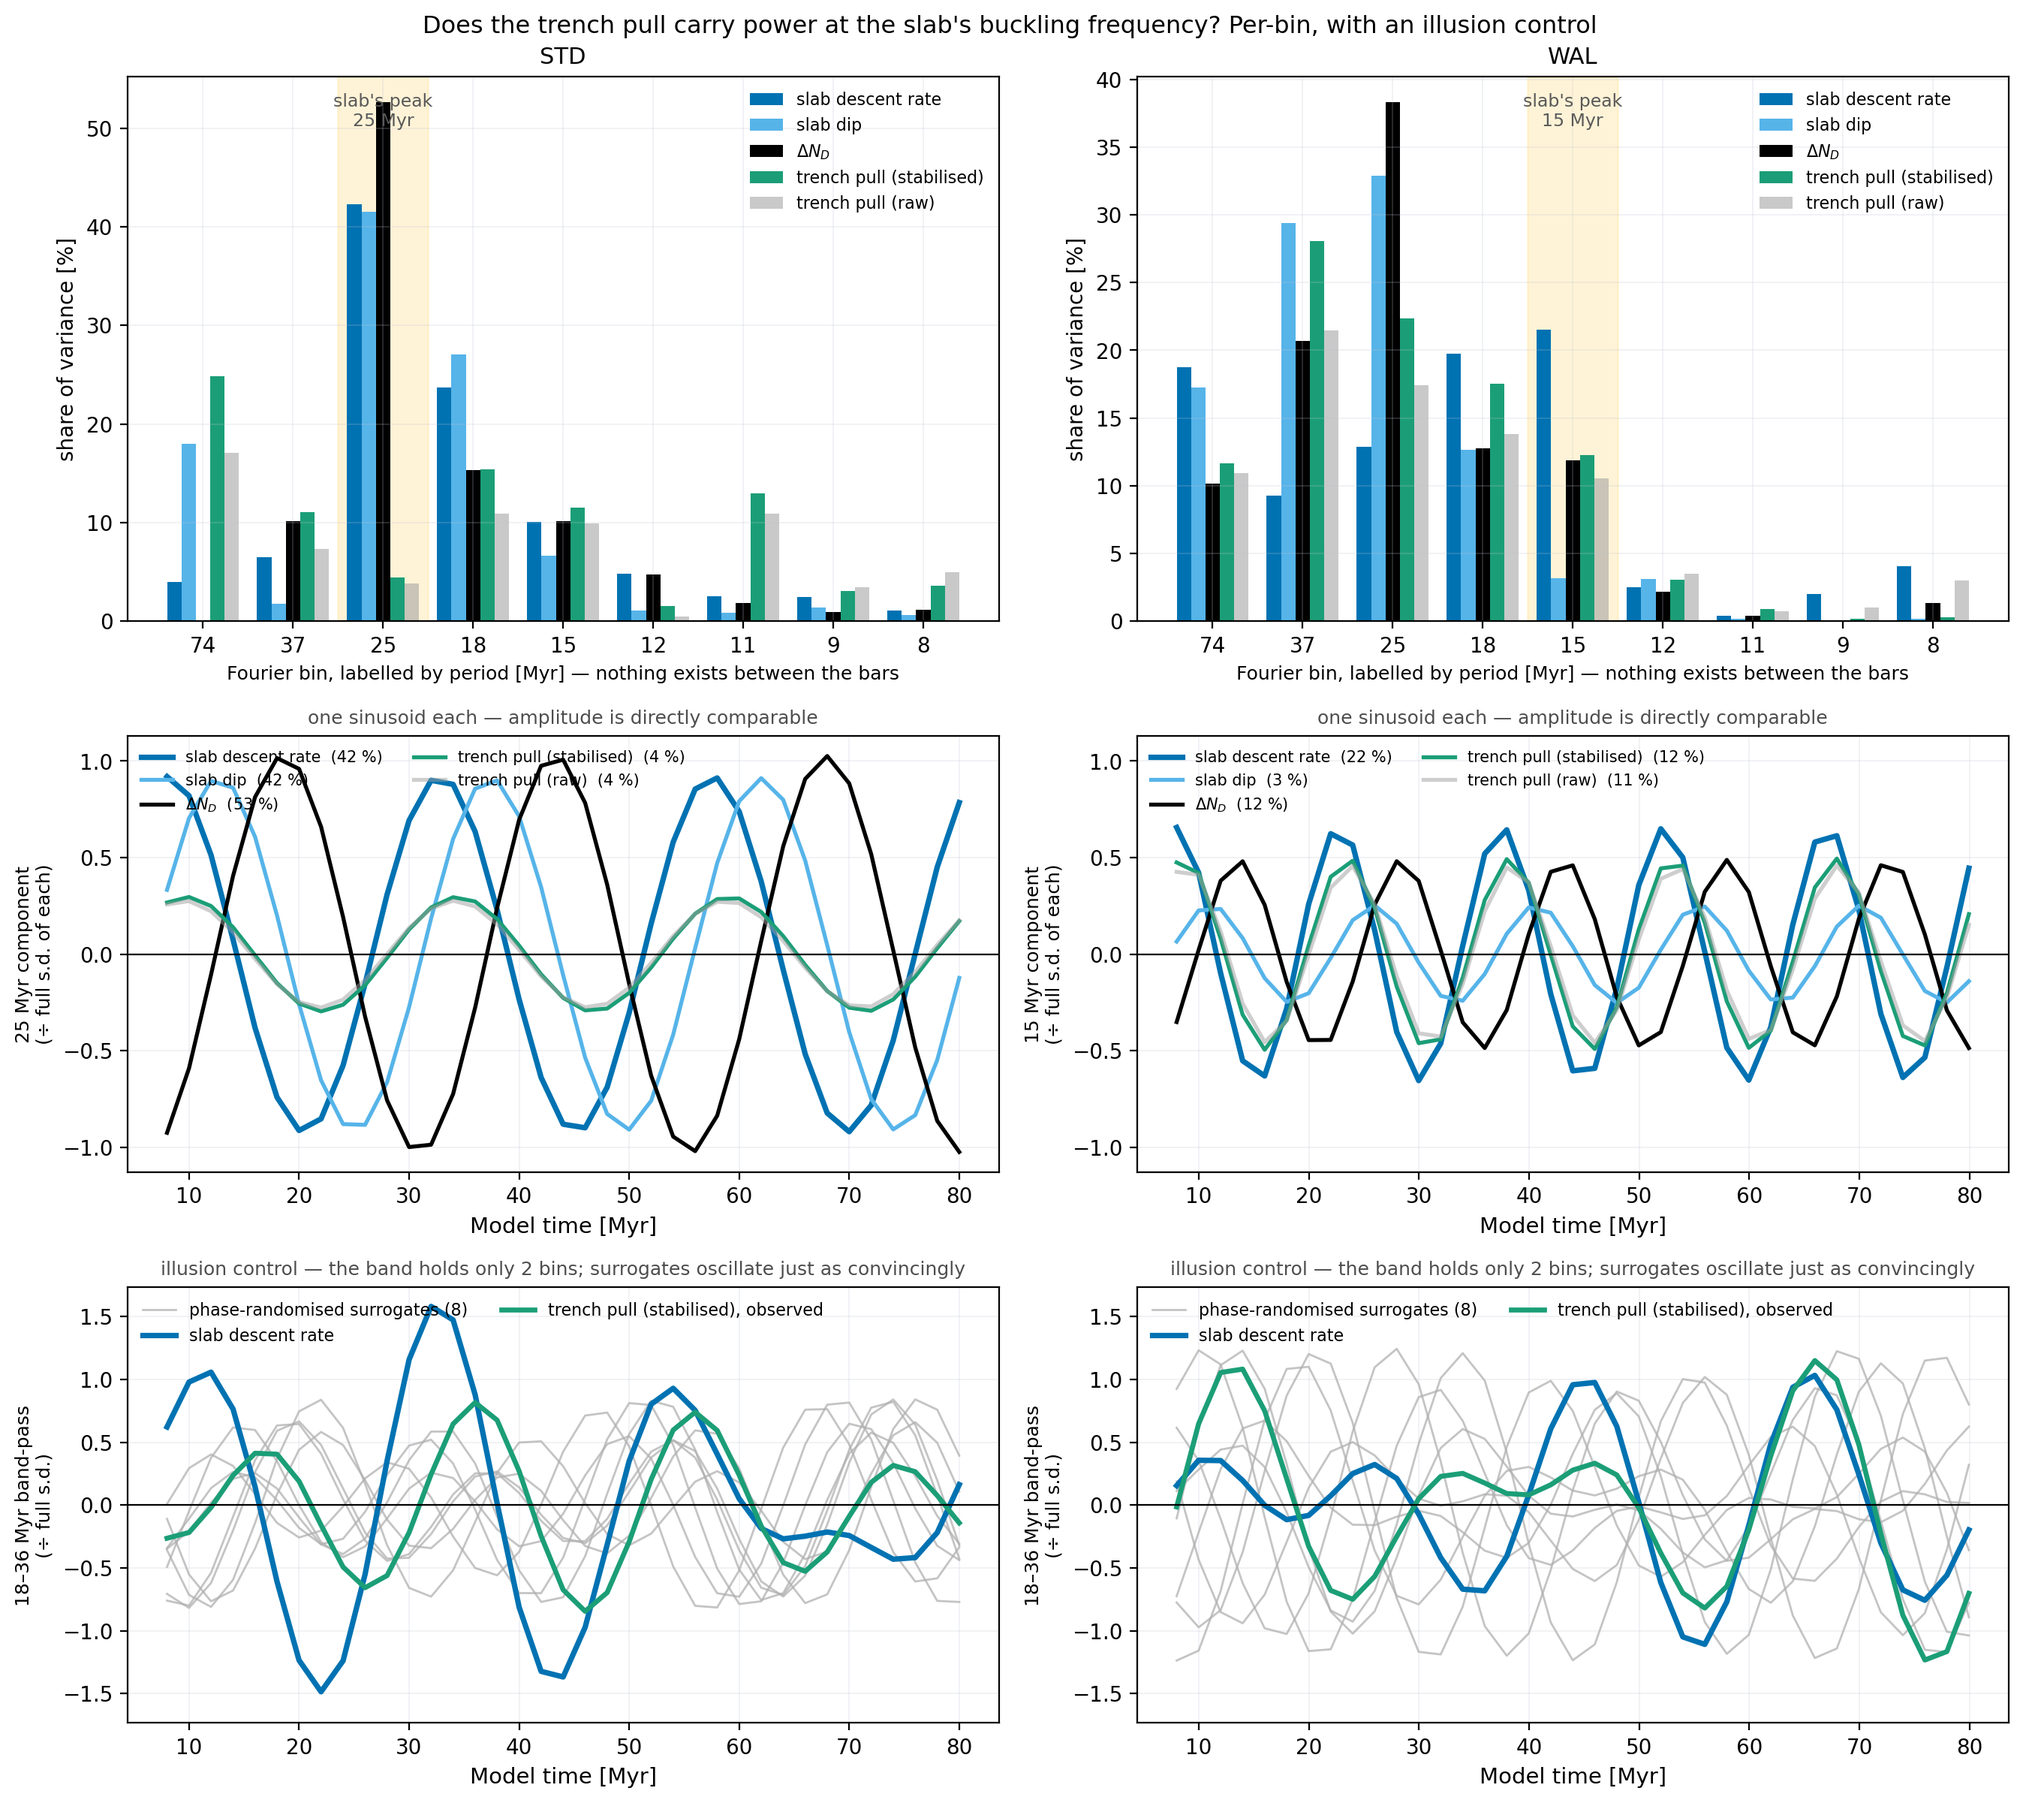
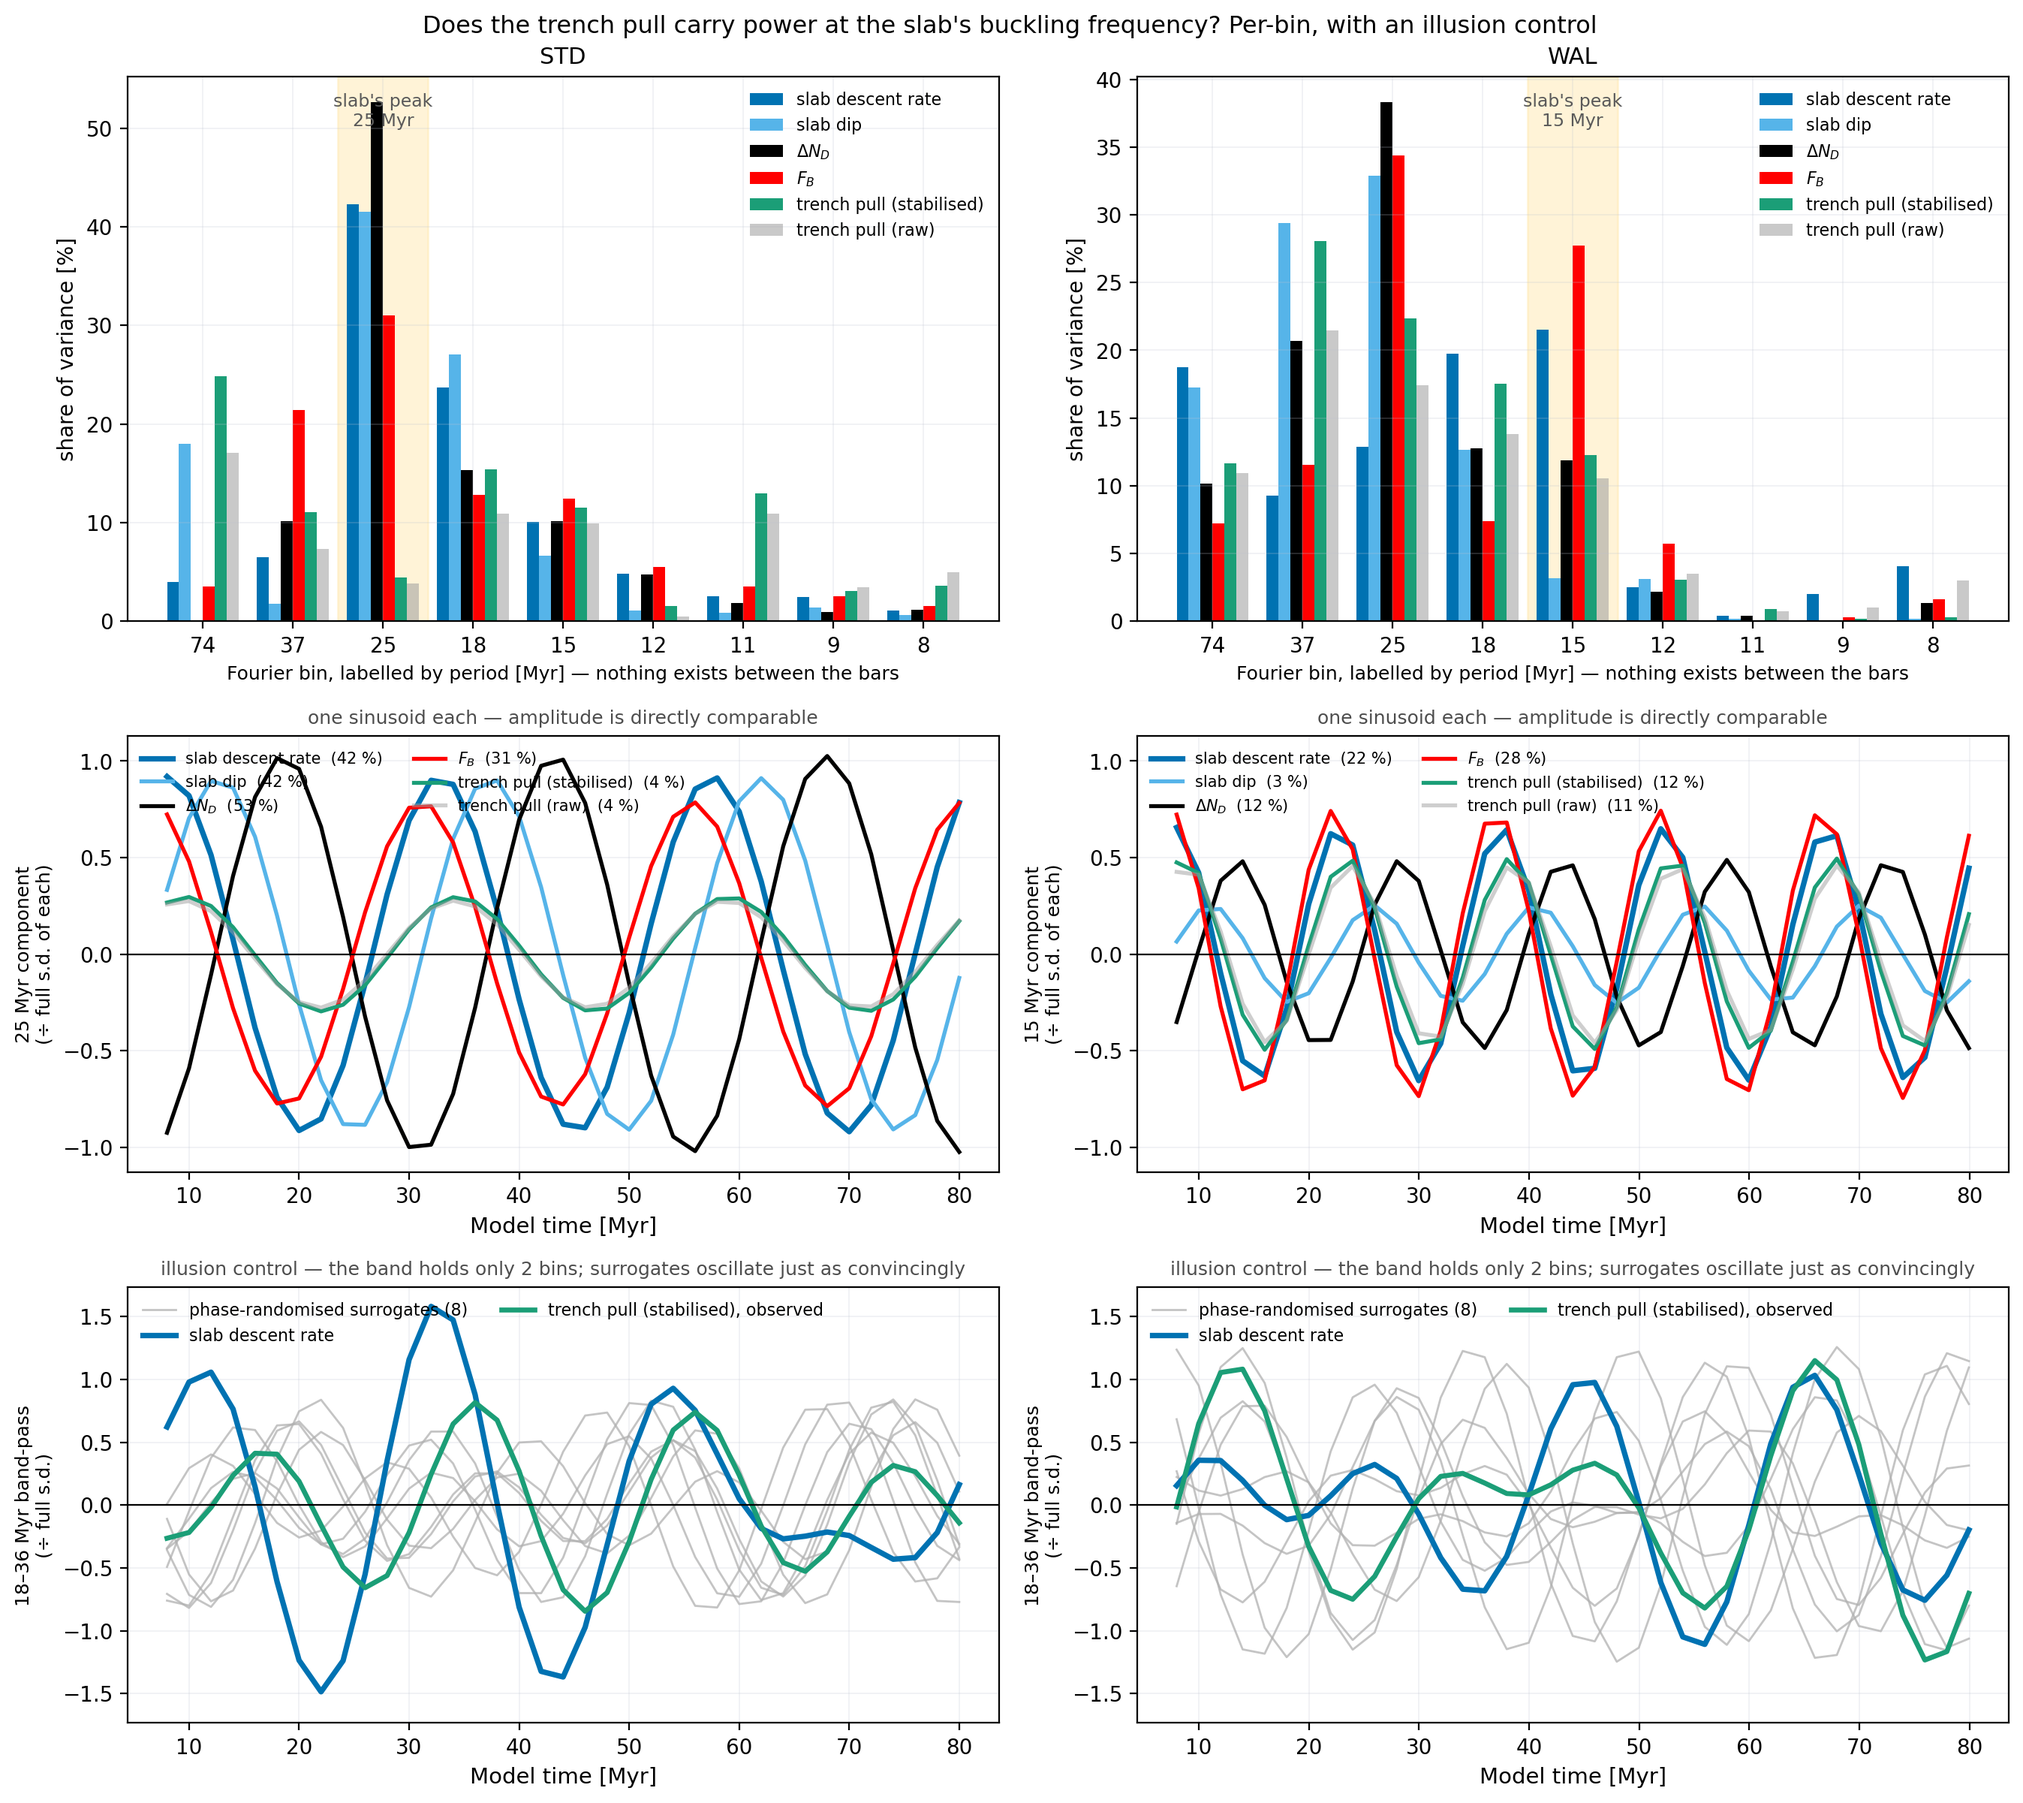
diag_trench_pull_spectrum: add F_B; it completes the picture
Dan's request. F_B is the only term whose band correlation with the slab
clears significance (r = +0.93, p = 0.049 in STD) and it is near IN PHASE
with slab descent (+1.7 Myr) where Delta N_D is near antiphase (-10.4).

The budget at the 25 Myr buckling bin, amplitudes in TN/m:
drive 0.038 = Delta N_D 0.296 + F_B 0.243, which balances only because
those two are 178 degrees apart (vector sum 0.054). The buckling cycle is
an exchange between the two resistance terms at nearly constant drive;
the trench pull's 0.037 is the same size as the whole drive fluctuation.

Also fixes the amplitude scaling (peak amplitude is 2|F_k|/N; an earlier
version carried an extra sqrt(2) and inflated everything by 41 %), now
asserted against the independent sqrt(2f)*sd route.

diff --git a/scripts/diag_trench_pull_spectrum.py b/scripts/diag_trench_pull_spectrum.py
@@ -85,24 +85,43 @@ more precise and more interesting: SMALL BUT IN PHASE.
       14.8    12
       10.6    13
 
-  against slab descent 42 %, slab dip 42 % and Delta N_D 53 % in that same
-  24.7 Myr bin. But share of variance is not force. In absolute terms the
-  24.7 Myr component is
+  against slab descent 42 %, slab dip 42 %, Delta N_D 53 % and F_B 31 % in
+  that same 24.7 Myr bin. But share of variance is not force. In absolute
+  terms the 24.7 Myr component is
 
-      Delta N_D     amplitude 0.296 TN/m, lag -10.4 Myr (near ANTIPHASE,
-                    which is the r = -0.90 seen in the band correlation)
-      trench pull   amplitude 0.037 TN/m, lag  -1.6 Myr (near IN PHASE)
+      Delta N_D     amplitude 0.296 TN/m, lag -10.4 Myr -- near ANTIPHASE
+                    (the r = -0.90 of the band correlation)
+      F_B           amplitude 0.243 TN/m, lag  +1.7 Myr -- near IN PHASE
+      trench pull   amplitude 0.037 TN/m, lag  -1.6 Myr -- in phase, tiny
 
-  So the trench pull does respond at the buckling frequency, coherently
-  and almost without lag -- at ONE EIGHTH the amplitude of Delta N_D. The
-  correct statement is not "no response" but "a small in-phase response,
-  an order of magnitude below the in-plane one".
+  ⚠ F_B WAS ADDED AT DAN'S REQUEST 2026-09-23 AND IT COMPLETES THE
+  PICTURE. It is also the ONLY term whose band correlation with the slab
+  clears significance: r = +0.93, p = 0.049, against a surrogate median
+  |r| of 0.42.
+
+  THE BUDGET AT THE BUCKLING FREQUENCY (STD, amplitudes in TN/m):
+
+      drive 0.038  =  Delta N_D 0.296  +  F_B 0.243
+
+  which balances only because Delta N_D and F_B are 178 DEGREES APART --
+  their vector sum is 0.054, an order of magnitude below either. The
+  buckling cycle is almost entirely an EXCHANGE BETWEEN THE TWO
+  RESISTANCE TERMS at nearly constant drive. The trench pull's 0.037 is
+  the same size as the whole drive fluctuation, and both are ~13 % of the
+  terms being exchanged.
+
+  So the answer is not "no response" but: the trench pull responds in
+  phase, at an eighth of Delta N_D's amplitude, while the cycle itself is
+  carried by Delta N_D trading against F_B.
 
   WAL is a different animal and should not be averaged with STD. Its slab
   descent peaks at 14.8 Myr while its dip peaks at 24.6; its trench pull
   peaks at 37 Myr. At the descent peak the trench pull's amplitude
   (0.131 TN/m) is comparable to Delta N_D's (0.156), so WAL does NOT
-  reproduce STD's eightfold separation.
+  reproduce STD's eightfold separation. The exchange structure does
+  survive, more weakly: Delta N_D 0.156 against F_B 0.181, 150 deg apart,
+  vector sum 0.090 against a drive of 0.083; F_B again the best-correlated
+  term (r = +0.77, p = 0.095).
 
 ⚠ DAN'S PHASE-SHIFT READING, AND WHY THE BAND-PASS MISLED. In the
 two-bin band-pass the trench pull looked like the slab's frequency shifted
@@ -127,12 +146,17 @@ pull jumps to 57 % on that band purely by absorbing power that has
 nothing to do with the slab. Neither helps. The per-bin table above is
 the statement that survives; a band is only ever a lossy summary of it.
 
-WHAT IT MEANS. The buckling cycle reaches the trailing plate
-overwhelmingly as a modulation of the in-plane resultant, with a small
-in-phase trench-pull response alongside it. That is DYNAMICS_FINDINGS
-§1.7 (76 % of a slab pulse absorbed by Delta N_D relaxing, 15 % by trench
-pull) recovered in the frequency domain -- and the 8:1 amplitude ratio
-here is close to the 76:15 split found there by regression.
+WHAT IT MEANS. The buckling cycle reaches the trailing plate as an
+exchange between the in-plane resultant and basal drag, at a drive that
+is very nearly constant: when the slab descends faster the plate speeds
+up, basal drag rises, and the in-plane compression relaxes by almost
+exactly the same amount. The trench pull participates only weakly, in
+phase, at an eighth of that amplitude.
+
+This is DYNAMICS_FINDINGS §1.7 (76 % of a slab pulse absorbed by
+Delta N_D relaxing, 15 % by trench pull) recovered independently in the
+frequency domain, and the two agree numerically: the 8:1 amplitude ratio
+here against the 76:15 split found there by regression.
 
 DRAFT CAPTION (if needed). Spectral test of the trench pull against the
 slab, STD (left) and WAL (right). Top: periodograms of the slab descent
@@ -167,7 +191,7 @@ SEED = 20260923
 C_RULE = '#BFC3D1'
 C = {'slab descent rate': '#0072B2', 'slab dip': '#56B4E9',
      'trench pull (stabilised)': '#1B9E77', 'trench pull (raw)': '0.62',
-     '$\\Delta N_D$': 'k'}
+     '$\\Delta N_D$': 'k', '$F_B$': 'red'}
 
 
 def uniform(t, y):
@@ -238,6 +262,7 @@ def main():
             'slab descent rate': s[f'{key}_vz_upper'][:n],
             'slab dip': s[f'{key}_dip'][:n],
             '$\\Delta N_D$': q['d_nd'][:n] / 1e12,
+            '$F_B$': q['f_b'][:n] / 1e12,
             'trench pull (stabilised)': TP_stab,
             'trench pull (raw)': TP_raw,
         }
@@ -346,10 +371,34 @@ def main():
                  (key, 'band_bin_count', str(int(inband.sum()))),
                  (key, 'white_noise_null_share', f'{null:.4f}')]
 
+        # THE BUDGET AT THE BUCKLING FREQUENCY. The Fourier transform is
+        # linear, so if the balance dN_D - dGPE* + F_B = 0 holds in time it
+        # holds bin by bin. This is therefore arithmetic, not a new test --
+        # but it is the arithmetic that says which term absorbs the cycle.
+        Fk = lambda y: np.fft.rfft(y - y.mean())[kpk + 1]
+        gpe = Fk(uniform(t, q['d_gpe'][:n] / 1e12)[1])
+        nd, fb = Fk(U['$\\Delta N_D$'][1]), Fk(U['$F_B$'][1])
+        # Peak amplitude of a real Fourier component is 2|F_k|/N. (An
+        # earlier version used an extra sqrt(2) here and inflated every
+        # amplitude by 41 %; it is cross-checked below against the
+        # independent route A = sqrt(2 f) * sd.)
+        sc = 2.0 / len(tu)
+        print(f'   BUDGET at {per_all[kpk]:.0f} Myr [TN/m amplitude]: '
+              f'drive {abs(gpe)*sc:.3f}  =  dN_D {abs(nd)*sc:.3f} + F_B '
+              f'{abs(fb)*sc:.3f}   (vector sum {abs(nd + fb)*sc:.3f}; '
+              f'dN_D and F_B are {np.degrees(np.angle(nd / fb)):+.0f} deg apart)')
+        rows += [(key, 'bin_amplitude_drive_TNm', f'{abs(gpe)*sc:.4f}'),
+                 (key, 'bin_amplitude_delta_nd_TNm', f'{abs(nd)*sc:.4f}'),
+                 (key, 'bin_amplitude_f_b_TNm', f'{abs(fb)*sc:.4f}'),
+                 (key, 'bin_phase_nd_minus_fb_deg',
+                  f'{np.degrees(np.angle(nd / fb)):.1f}')]
+        chk = np.sqrt(2 * P['$\\Delta N_D$'][kpk]) * U['$\\Delta N_D$'][1].std()
+        assert abs(abs(nd) * sc - chk) < 1e-6, 'amplitude scaling disagrees'
+
         # the illusion, quantified: how often does a surrogate beat the
         # observed band correlation?
         bt = bandpass(*U['slab descent rate'])
-        for nm in ('trench pull (stabilised)', '$\\Delta N_D$'):
+        for nm in ('trench pull (stabilised)', '$\\Delta N_D$', '$F_B$'):
             tux2, y2 = U[nm]
             r = float(np.corrcoef(bandpass(tux2, y2), bt)[0, 1])
             nullr = np.array([np.corrcoef(bandpass(tux2, surrogate(y2, rng)),
